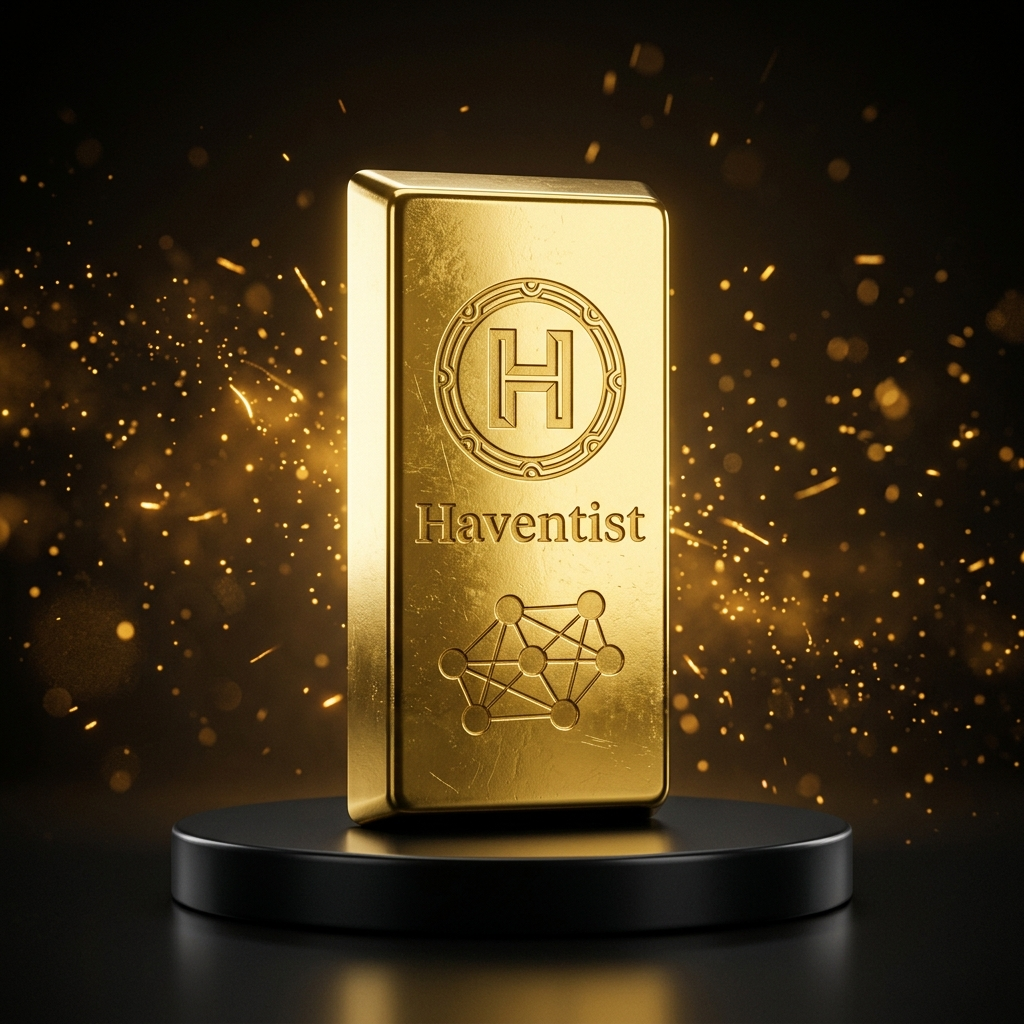
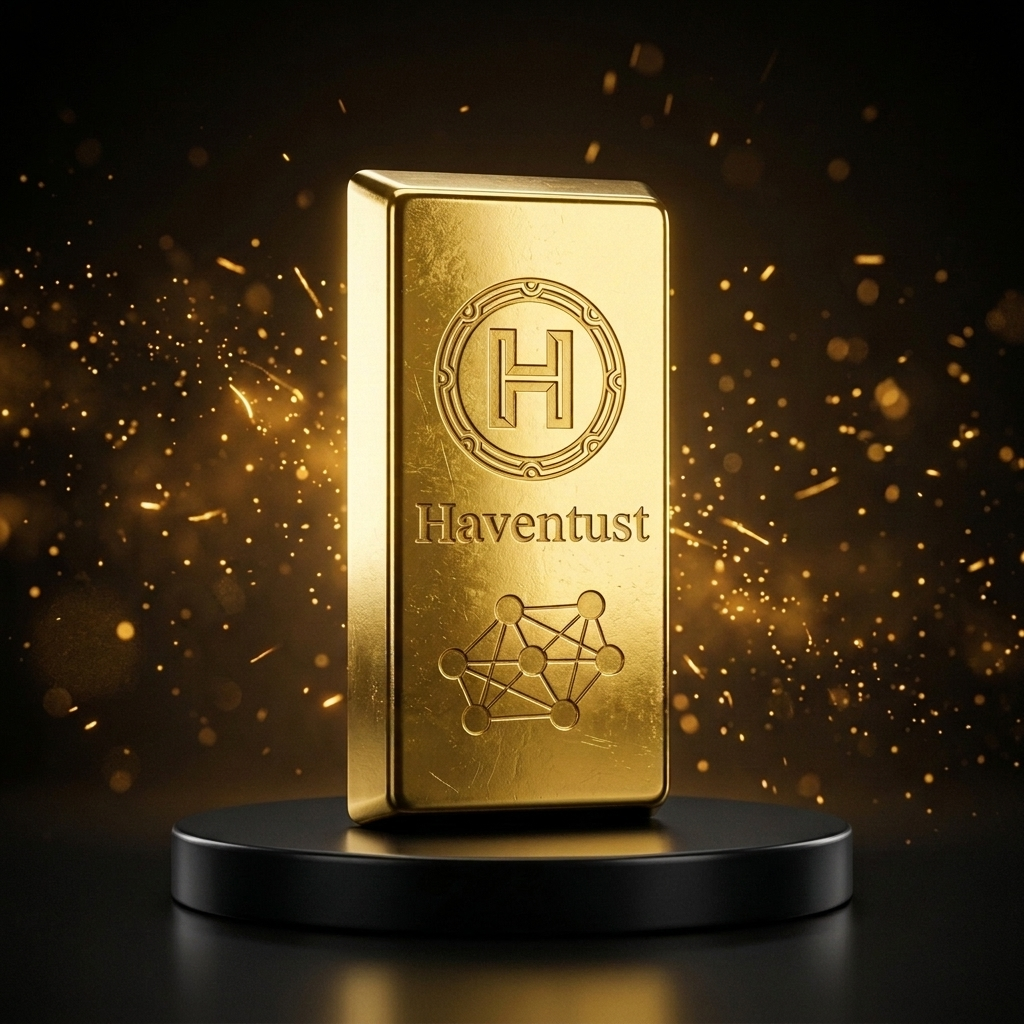
haventust banan thik korechi R pdf section added

Changed region(s): [[0.5, 0.5, 0.6562, 0.5312]]

diff --git a/src/pages/Plan.tsx b/src/pages/Plan.tsx
@@ -119,8 +119,18 @@ export default function Plan() {
         </div>
       </div>
 
-      <div className="mt-12 flex justify-center">
-        <button className="px-10 py-4 rounded-2xl font-bold bg-[#E6B044] text-slate-950 hover:brightness-110 shadow-[0_4px_25px_rgba(230,176,68,0.45)] hover:shadow-[0_4px_30px_rgba(230,176,68,0.6)] transition-all duration-300 flex items-center gap-2 active:scale-98">
+      <div className="mt-12 flex flex-col sm:flex-row justify-center items-center gap-4">
+        <a 
+          href="/haventust-business-plan.pdf"
+          download="Haventust_Business_Plan.pdf"
+          className="px-10 py-4 rounded-2xl font-bold bg-[#E6B044] text-slate-950 hover:brightness-110 shadow-[0_4px_25px_rgba(230,176,68,0.45)] hover:shadow-[0_4px_30px_rgba(230,176,68,0.6)] transition-all duration-300 flex items-center gap-2 active:scale-98 cursor-pointer"
+        >
+          <svg className="w-5 h-5" fill="none" stroke="currentColor" viewBox="0 0 24 24">
+            <path strokeLinecap="round" strokeLinejoin="round" strokeWidth="2.5" d="M4 16v1a3 3 0 003 3h10a3 3 0 003-3v-1m-4-4l-4 4m0 0l-4-4m4 4V4" />
+          </svg>
+          Download Business Plan PDF
+        </a>
+        <button className="px-10 py-4 rounded-2xl font-bold border border-[#E6B044]/40 text-[#E6B044] hover:bg-[#E6B044]/5 transition-all duration-300 flex items-center gap-2 active:scale-98">
           View Full Plan Details
           <svg className="w-4.5 h-4.5" fill="none" stroke="currentColor" viewBox="0 0 24 24">
             <path strokeLinecap="round" strokeLinejoin="round" strokeWidth="2.5" d="M14 5l7 7m0 0l-7 7m7-7H3" />

diff --git a/src/components/Layout.tsx b/src/components/Layout.tsx
@@ -63,6 +63,17 @@ export default function Layout() {
           {/* Buttons */}
           <div className="flex items-center gap-4">
             <a
+              href="/haventust-business-plan.pdf"
+              download="Haventust_Business_Plan.pdf"
+              className="flex items-center gap-1.5 px-3 sm:px-4 py-2 rounded-lg text-xs font-bold text-[#E6B044] border border-[#E6B044]/40 hover:bg-[#E6B044]/10 transition-all duration-300 cursor-pointer"
+              title="Download Business Plan PDF"
+            >
+              <svg className="w-3.5 h-3.5" fill="none" stroke="currentColor" viewBox="0 0 24 24">
+                <path strokeLinecap="round" strokeLinejoin="round" strokeWidth="2.5" d="M4 16v1a3 3 0 003 3h10a3 3 0 003-3v-1m-4-4l-4 4m0 0l-4-4m4 4V4" />
+              </svg>
+              <span className="hidden sm:inline">Download PDF</span>
+            </a>
+            <a
               href="https://app.haventust.in/"
               className="px-5 py-2 rounded-lg text-xs font-bold text-slate-300 border border-slate-700/80 hover:text-white hover:border-[#E6B044]/50 transition-all duration-300"
             >